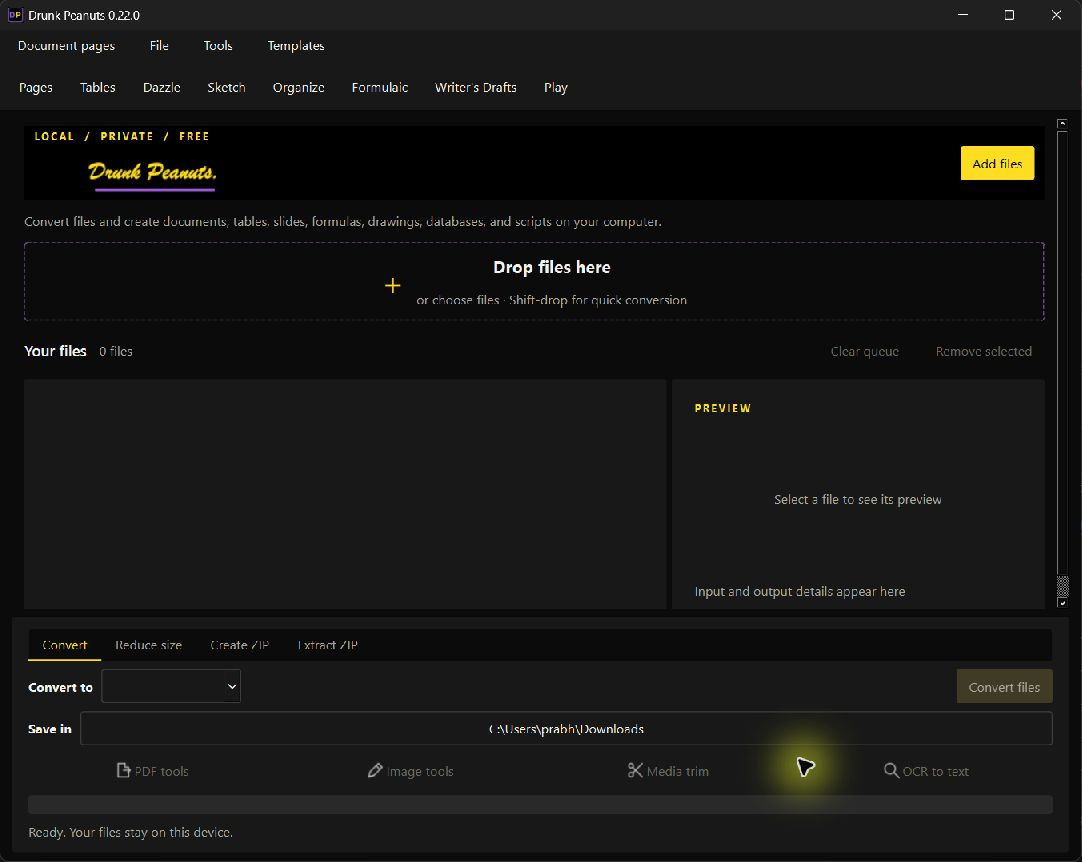
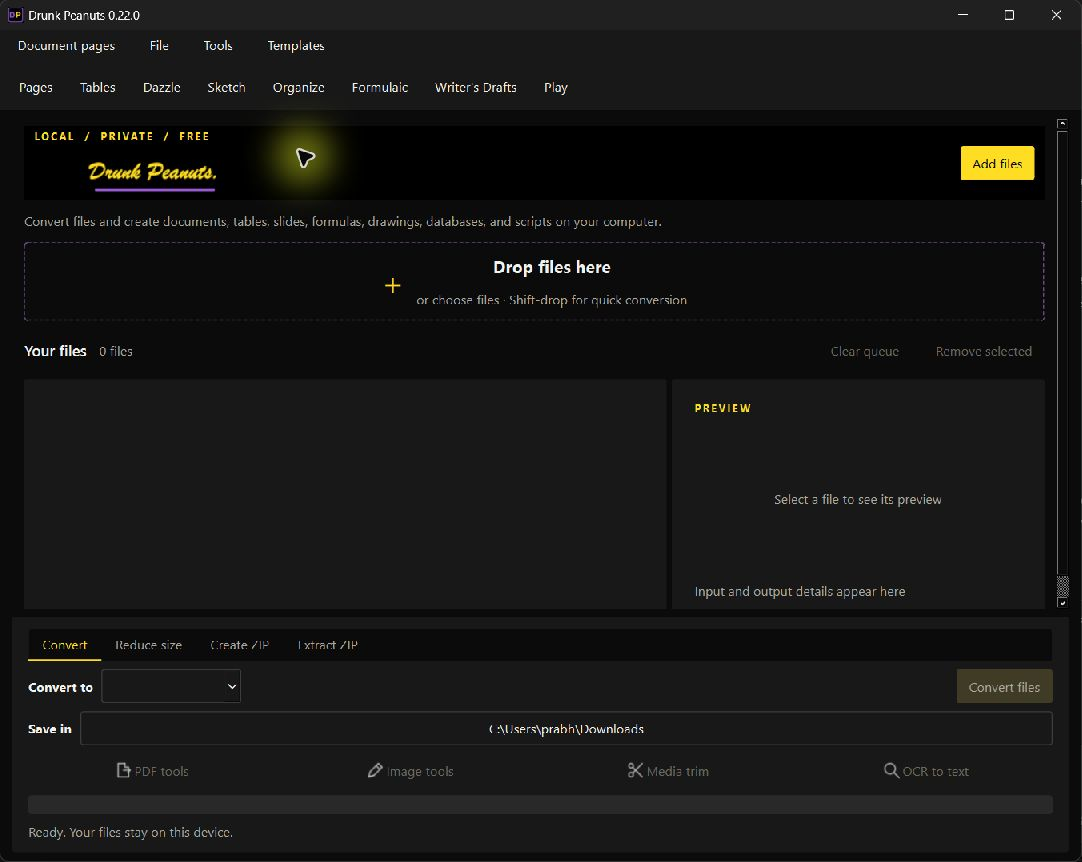
Record installed 0.22.0 release checks and fresh screenshot

Changed region(s): [[0.244, 0.1206, 0.3355, 0.2413], [0.7015, 0.8445, 0.793, 0.935]]

diff --git a/docs/DAZZLE_BATCH_022.md b/docs/DAZZLE_BATCH_022.md
@@ -13,4 +13,8 @@ Large panels, menus, toolbars and progress tracks use neutral black/charcoal. Ye
 
 80 source tests pass. The new checks cover notes, independent duplication, Undo/Redo, PPTX/Dazzle reload, unchanged shape geometry after canvas resizing, invalid dimensions, ribbon commands and presentation navigation/blackout. Installed Microsoft PowerPoint read both authored notes bodies, recognized the widescreen dimensions (960 × 540 pt), and exported the synthetic two-slide deck to PDF. This uses native document automation; no proprietary Office code was copied.
 
+All jobs in [the v0.22.0 release build](https://github.com/Thatweirdguy1/Drunk-Peanuts/actions/runs/40300028498) passed: Windows x64, Apple Silicon and Intel macOS, followed by release assembly. Downloaded Windows installer/portable files matched both the checksum file and GitHub asset digests. The extracted release passed Office/Play self-checks, native document round-trip conversion and actual video-frame decoding. Native PowerPoint PDF output was also checked to exclude speaker notes.
+
+The downloaded installer upgraded the existing Desktop installation successfully. The installed executable matched the release ZIP byte for byte, launched from the Desktop shortcut, and displayed the neutral theme, new Animations tab and speaker-notes dialog. The README converter screenshot is from this installed release. All five public release downloads returned HTTP 200.
+
 This is a bounded presentation batch. Master editing, advanced typography, multi-object grouping/distribution and a full animation timeline remain in the [Office queue](OFFICE_BATCHES.md). Speaker notes are plain text authoring; this release does not provide a second-monitor presenter view or notes-page PDF printing.

diff --git a/README.md b/README.md
@@ -10,7 +10,7 @@ A free, local desktop converter and creative suite for Windows and macOS. Conver
 
 **Version 0.22.0** replaces purple-tinted panels with neutral black/charcoal and keeps purple in smaller branding, focus and selection accents. Dazzle adds native speaker notes, slide dimensions, presentation start controls and screen blanking. The Microsoft 365-style ribbon remains across the Office suite.
 
-This release renames the app to **Drunk Peanuts**, adds a black/purple/yellow theme and original DP icon, and brings editable headers, footers and live page-number fields to Pages. The Office ribbon, conversion, compression, OCR, Play and PDF tools remain available. Use **Insert → Header / Footer / Page numbers**; DOCX contains live PAGE/NUMPAGES fields and PDF export numbers the actual output pages.
+Drunk Peanuts also includes the original DP icon and editable headers, footers and live page-number fields in Pages. The Office ribbon, conversion, compression, OCR, Play and PDF tools remain available. Use **Insert → Header / Footer / Page numbers**; DOCX contains live PAGE/NUMPAGES fields and PDF export numbers the actual output pages.
 
 Read the [rename and header/footer report](docs/DRUNK_PEANUTS_021.md). See [shipped batches and remaining Office features](docs/OFFICE_BATCHES.md). Full Office feature parity is in progress; only working controls are exposed. The earlier [object editor and PDF organizer report](docs/OFFICE_FEATURES_019.md) details the underlying native models and limits.
 
